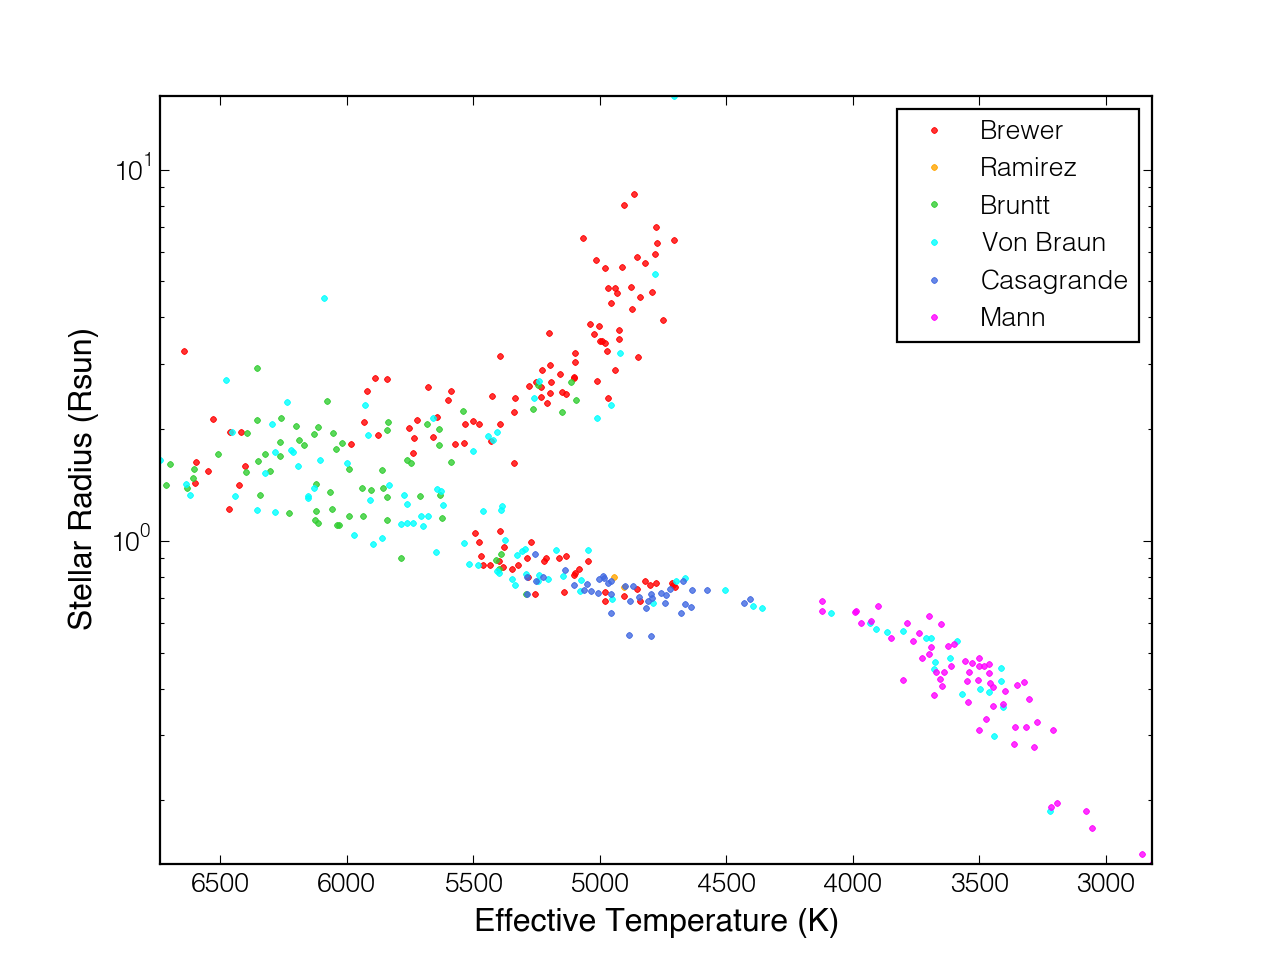
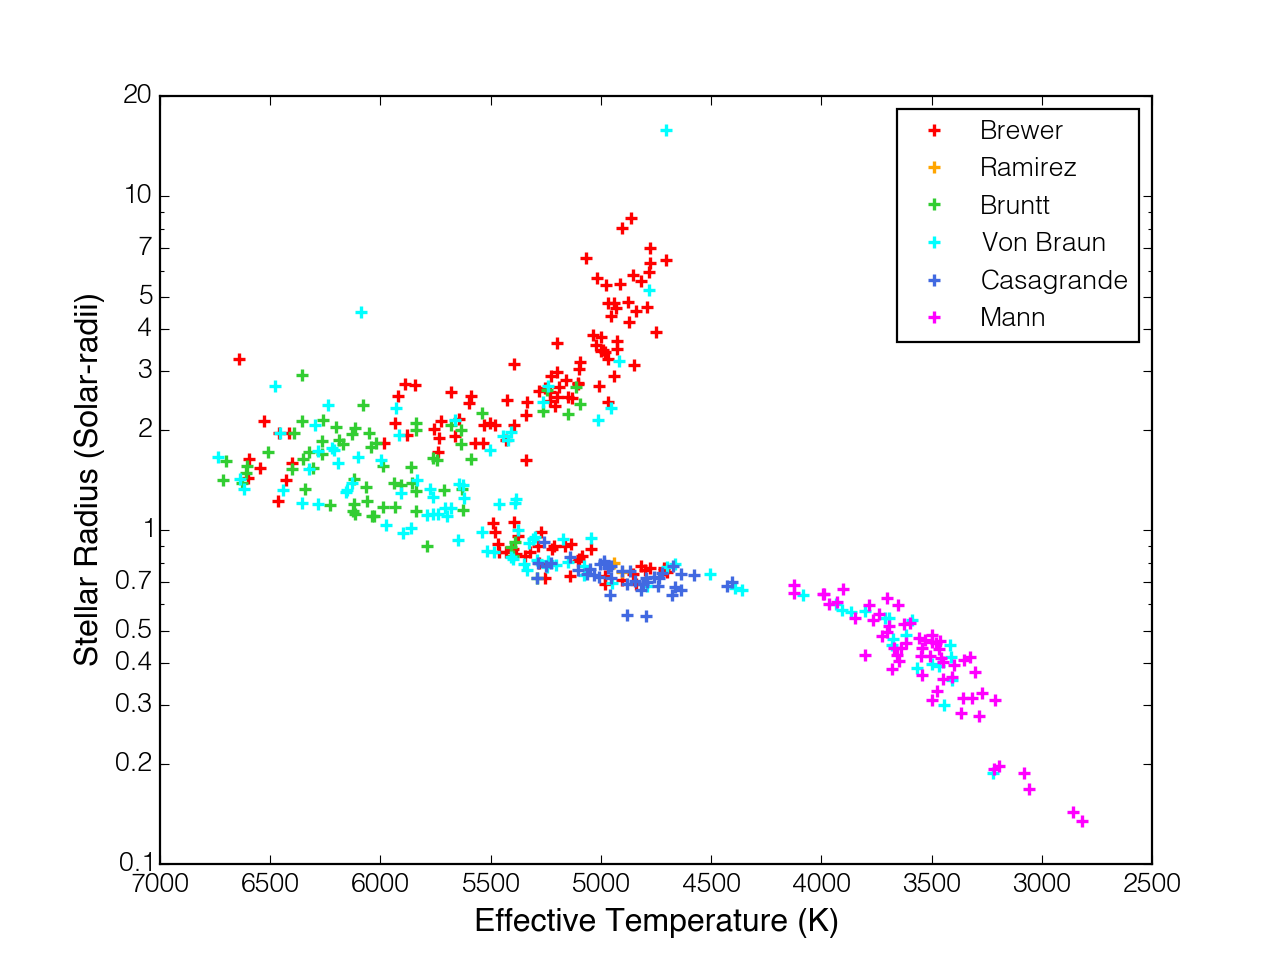
Made some tweaks to the figures in the quickstart
Note: had to hack the library to get it to import.

diff --git a/docs/quickstart.py b/docs/quickstart.py
@@ -1,17 +1,11 @@
 # code-start-imports
-from matplotlib.transforms import blended_transform_factory
 import pandas as pd
 from pylab import *
 import specmatchemp.library
-rc('savefig',dpi=160)
+import specmatchemp.plotting.plots as smplot
 
-def hr_diagram():
-    semilogy()
-    xlim(xlim()[::-1])
-    autoscale(tight='y')
-    xlabel('Effective Temperature (K)')
-    ylabel('Stellar Radius (Rsun)')
 # code-stop-imports
+rc('savefig',dpi=160)
 
 
 
@@ -22,11 +16,10 @@ lib = specmatchemp.library.read_hdf(wavlim=[5140,5200])
 
 
 
-
 # code-start-library: Here's how the library spans the HR diagram.
 fig = figure()
-hr_diagram()
 plot(lib.library_params.Teff, lib.library_params.radius,'.')
+smplot.label_axes('Teff','radius')
 # code-stop-library
 fig.savefig('quickstart-library.png')
 
@@ -35,16 +28,19 @@ fig.savefig('quickstart-library.png')
 
 # code-start-library-labeled
 fig = figure()
-hr_diagram()
 g = lib.library_params.groupby('source')
 colors = ['Red','Orange','LimeGreen','Cyan','RoyalBlue','Magenta']
 i = 0
 for source, idx in g.groups.iteritems():
     cut = lib.library_params.ix[idx]
     color = colors[i]
-    plot(cut.Teff, cut.radius,'.',label=source,color=color,alpha=0.8,ms=5) 
-    i +=1
+    plot(
+        cut.Teff, cut.radius,'+', label=source, color=color, alpha=1, ms=5, 
+        mew=1.5
+    ) 
+    i+=1
 legend()
+smplot.label_axes('Teff','radius')
 # code-stop-library-labeled
 fig.savefig('quickstart-library-labeled.png')
 
@@ -58,9 +54,10 @@ g = cut.groupby(pd.cut(cut.Teff,bins=arange(3000,7000,500)))
 cut = g.first()
 
 fig = figure()
-hr_diagram()
 plot(lib.library_params.Teff, lib.library_params.radius,'.')
-plot(cut.Teff, cut.radius,'o')
+plot(cut.Teff, cut.radius,'o', label='Selected Stars')
+legend()
+smplot.label_axes('Teff','radius')
 fig.savefig('quickstart-library-selected-stars.png')
 # code-stop-library-selected-stars
 
@@ -69,6 +66,7 @@ fig.savefig('quickstart-library-selected-stars.png')
 
 
 # code-start-spectra-selected-stars
+from matplotlib.transforms import blended_transform_factory
 fig,ax = subplots(figsize=(8,4))
 trans = blended_transform_factory(ax.transAxes,ax.transData)
 bbox = dict(facecolor='white', edgecolor='none',alpha=0.8)

diff --git a/specmatchemp/plotting/plots.py b/specmatchemp/plotting/plots.py
@@ -66,6 +66,21 @@ def hide_y_ticks():
     ax = plt.gca()
     ax.axes.get_yaxis().set_ticks([])
 
+def label_axes(param_x, param_y):
+    """Convenience function for tweaking axes to make plots
+    """
+    if param_x is 'Teff' and param_y is 'radius':
+        yt = [0.1, 0.2, 0.3, 0.4, 0.5, 0.7, 1, 2, 3, 4, 5, 7, 10, 20]
+        plt.semilogy()
+        plt.xlim(plt.xlim()[::-1])
+        plt.ylim(yt[0],yt[-1])
+        plt.xlabel('Effective Temperature (K)')
+        plt.ylabel('Stellar Radius (Solar-radii)')
+        plt.yticks(yt,yt)
+        return None
+
+    assert False, "invalid param_x, param_y"
+
 ######################### Library and Spectrum plots ###########################
 def plot_library_params(lib, param_x, param_y, grouped=False, ptlabels=False, plt_kw={}):
     """Plot a H-R diagram from the library

diff --git a/specmatchemp/library.py b/specmatchemp/library.py
@@ -112,7 +112,8 @@ class Library(object):
             "Error: Index {0:d} is out of bounds in library_spectra".format(i)
 
         # ensure library_spectra is of right shape
-        assert np.shape(library_spectra)[1] == 3 and np.shape(library_spectra)[2] == len(wav), \
+        # EAP hack to get library to build
+        assert np.shape(library_spectra)[1] == 2 and np.shape(library_spectra)[2] == len(wav), \
             "Error: library_spectra should have shape ({0:d}, 3, {1:d})".format(num_spec, len(wav))
 
         # set index to be equal to lib_index

diff --git a/docs/quickstart.rst b/docs/quickstart.rst
@@ -50,7 +50,7 @@ easy. Let's grab some representative dwarf star spectra.
 
 .. literalinclude:: quickstart.py
    :start-after: code-start-library-selected-stars
-   :end-before: code-start-library-selected-stars
+   :end-before: code-stop-library-selected-stars
 
 .. image:: quickstart-library-selected-stars.png
 
